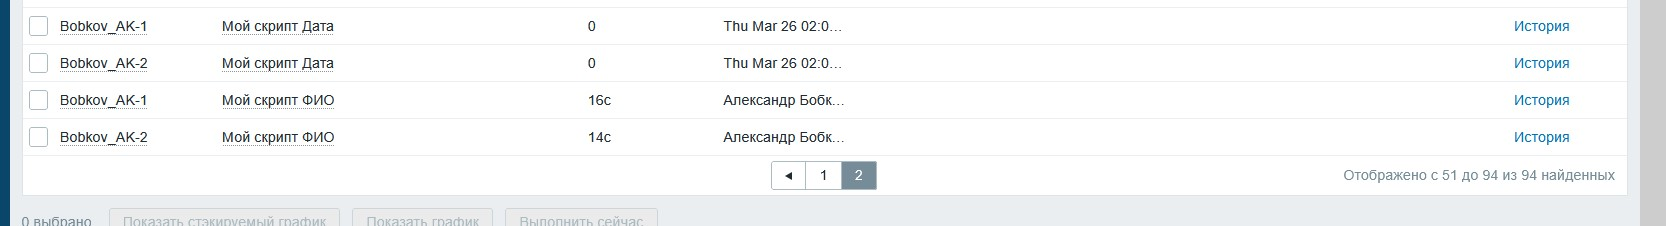
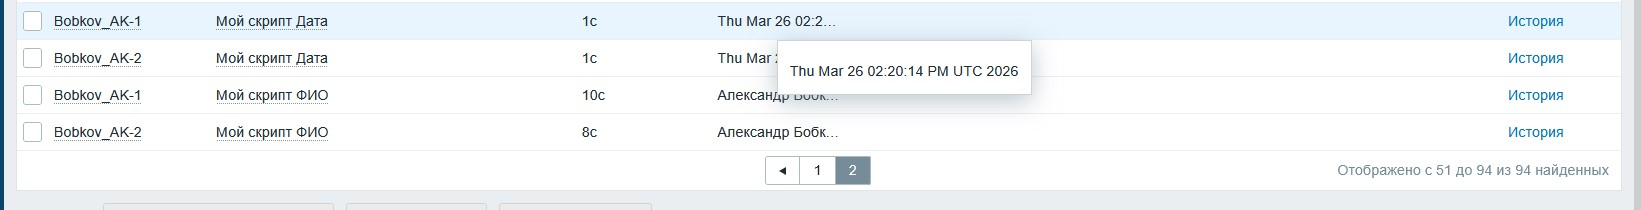
Финальная версия обязательной части

diff --git a/README.md b/README.md
@@ -195,31 +195,39 @@ fi
 
 * Чтобы агент разрешил серверу запрашивать данные через этот скрипт, необходимо прописать «пользовательский параметр».
 
-*    Открываем конфиг: sudo nano /etc/zabbix/zabbix_agentd.conf
-*    Добавляем строку в раздел UserParameter:
-    UserParameter=custom.script[*],/usr/local/bin/zabbix_script.sh $1
-* Логика:
-     custom.script — уникальное имя ключа для Zabbix.
-     [*] — принимает любое значение из скобок в Zabbix (1 или 2).
-     $1 — передает это значение внутрь скрипта как первый аргумент.
-*    Перезагружаем агента, чтобы он прочитал новый конфиг:
-```bash        
+*   **Открываем конфиг:** `sudo nano /etc/zabbix/zabbix_agentd.conf`
+
+*   **Добавляем строку в раздел UserParameter:**
+    `UserParameter=custom.script[*],/usr/local/bin/zabbix_script.sh $1`
+
+**Логика:**
+*   `custom.script` — уникальное имя ключа для Zabbix.
+*   `[*]` — принимает любое значение из скобок в Zabbix (1 или 2).
+*   `$1` — передает это значение внутрь скрипта как первый аргумент.
+
+*   **Перезагружаем агента, чтобы он прочитал новый конфиг:**
+
+```bash
 sudo systemctl restart zabbix-agent
 ```
+*   **Настройка в веб-интерфейсе Zabbix**
 
-* ** Настройка в веб-интерфейсе Zabbix**
-##### Создание элементов данных (Items)**
-	В пользовательском шаблоне создаем два Items:
+##### Создание элементов данных (Items)
+В пользовательском шаблоне создаем два Items:
 
-        Элемент для ФИО:
-        Имя: Мой скрипт ФИО
-        Ключ: custom.script[1] (передаем 1 в скрипт).
-        Тип информации: Текст (Text).
+*   **Элемент для ФИО:**
+    *   **Имя:** Мой скрипт ФИО
+    *   **Ключ:** `custom.script[1]` (передаем 1 в скрипт).
+    *   **Тип информации:** Текст (Text).
 
-    	Элемент для Даты:
-        Имя: Мой скрипт Дата
-        Ключ: custom.script[2] (передаем 2 в скрипт).
-        Тип информации: Текст (Text).
+*   **Элемент для Даты:**
+    *   **Имя:** Мой скрипт Дата
+    *   **Ключ:** `custom.script[2]` (передаем 2 в скрипт).
+    *   **Тип информации:** Текст (Text).
+
+
+
+
 
 <details>
 <summary>Нажми, чтобы увидеть скриншот "Результат отработки скрипта" </summary>
